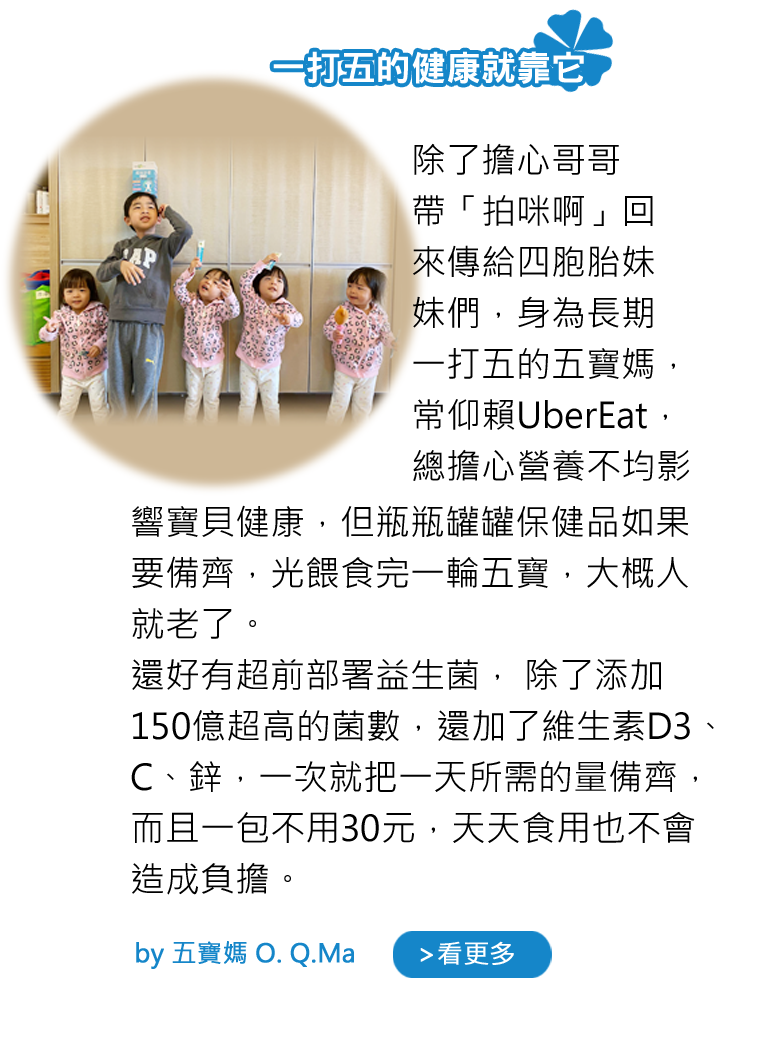
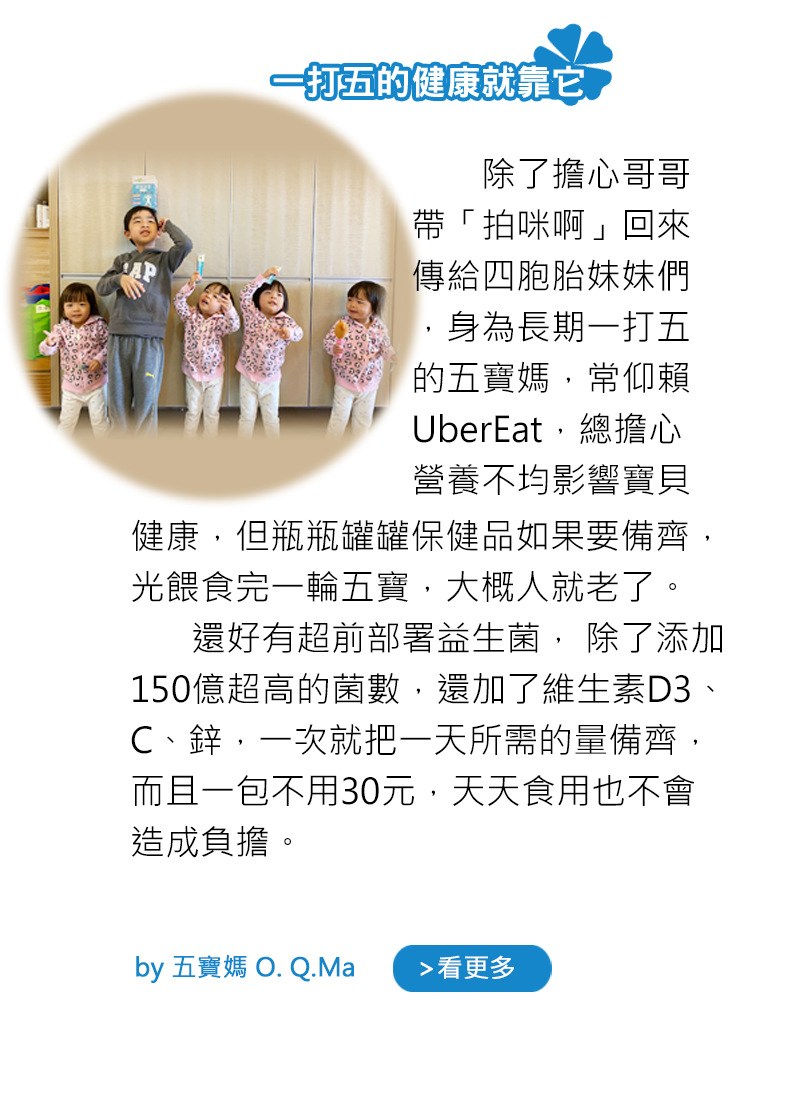
sad

Changed region(s): [[0.031, 0.0, 0.8981, 0.9134], [0.4645, 0.8525, 0.7123, 0.9439], [0.0929, 0.0913, 0.1858, 0.1218]]

diff --git a/css/style.css b/css/style.css
@@ -1558,7 +1558,7 @@ body{
     .mb_item{
         width: 60%;
         position: relative;
-        right: 30px;
+        right: 60px;
         transition: all .7s;
     }
     .modalBlock .close {
@@ -1581,7 +1581,7 @@ body{
         padding-top: 5.25%;
     }
     .mb_people{
-        width: 22%;
+        width: 24%;
         margin-top: 50px;
     }
 }
@@ -1618,14 +1618,14 @@ body{
         /* transform: scaleY(1); */
     }
     .mb_people{
-        width: 21%;
+        width: 24%;
         margin-top: 50px;
     }
     .mb_item {
         width: 65%;
         position: relative;
         /* right: 120px; */
-        right: 20px;
+        right: 45px;
         transition: all .7s;
     }
     .slip_light {
